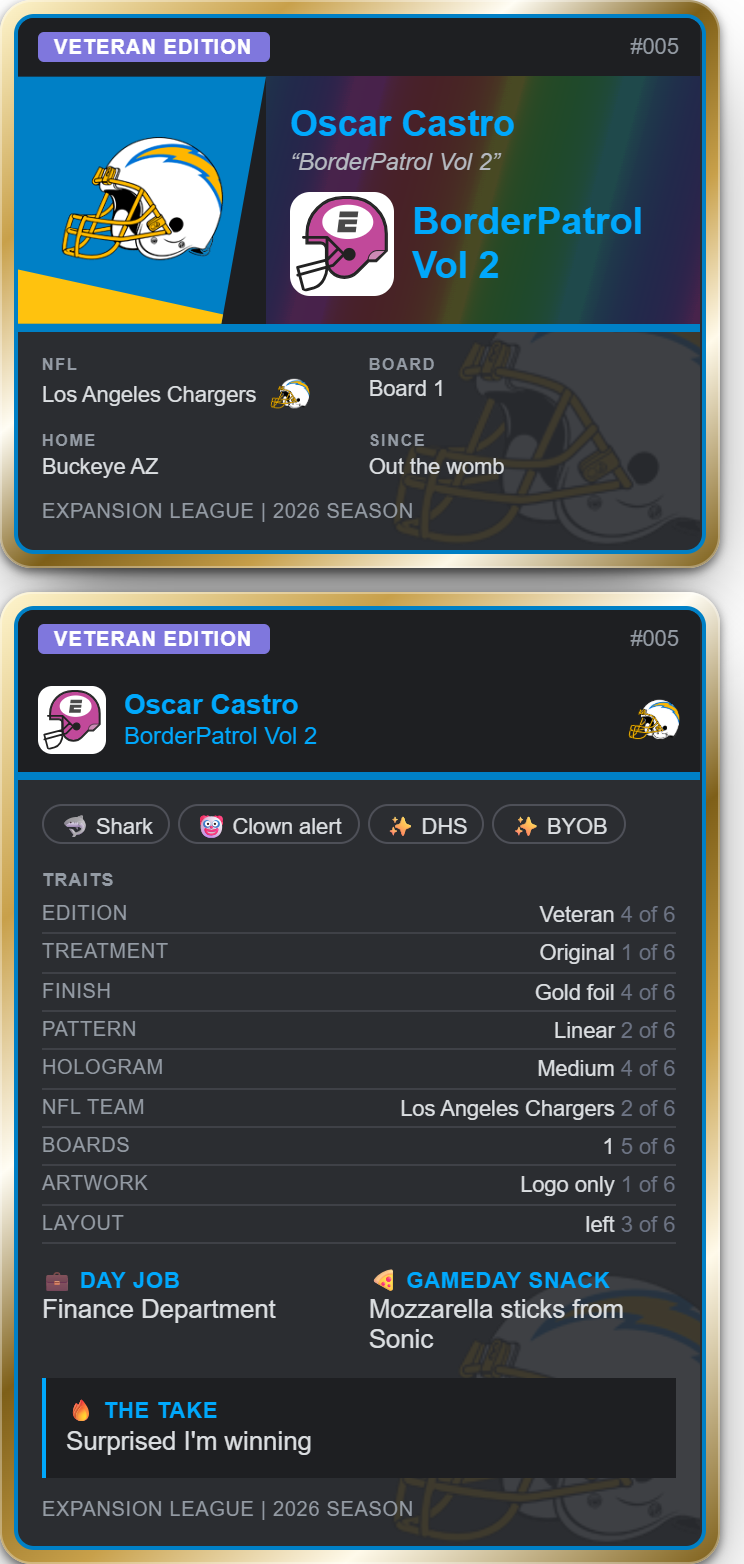
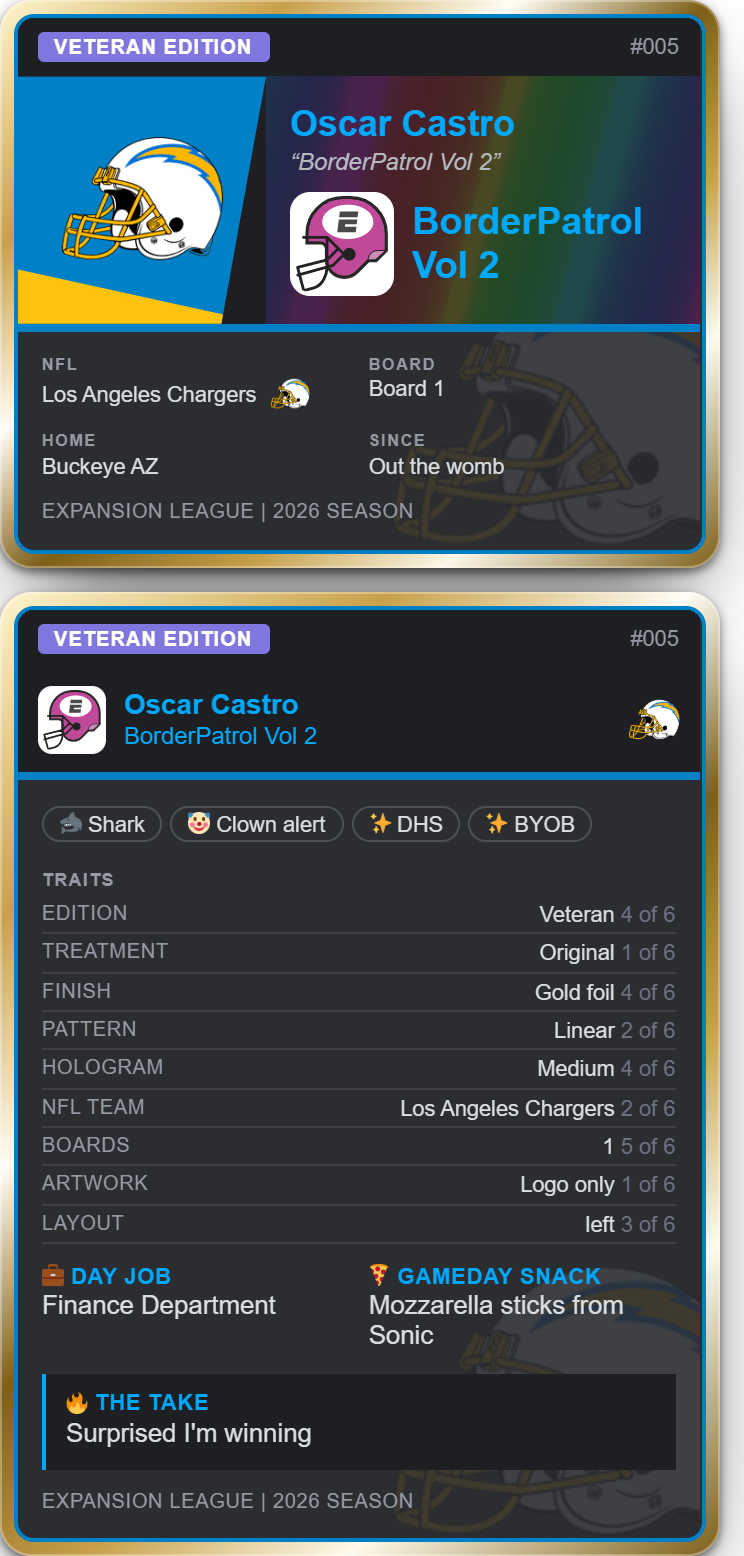
Draw emoji the way Discord draws them
Twemoji is the set Discord uses, so a card now looks like the room it is posted
in instead of changing shape depending on whose phone built it.

Both earlier attempts failed for the same reason and I missed it twice: the
glyphs were routed through /api/cards/img, and every image behind that proxy
shares one path, so the exporter collapsed them all into whichever it fetched
first — a card full of lightning bolts, then a card full of helmets. Pointed
straight at the CDN, where each glyph has its own path, they come through
correctly.

Oscar's #005 re-rendered with it.

diff --git a/cards/index.html b/cards/index.html
@@ -76,12 +76,14 @@ button{font-family:inherit}
 .db[disabled]{opacity:.6;cursor:wait}
 .bx{background:#383a40;border-radius:8px;padding:11px;color:#dbdee1}
 .only{color:#949ba4;font-size:12px;margin-bottom:8px}
+img.emoji{height:1em;width:1em;vertical-align:-.12em;display:inline-block}
 @media (prefers-reduced-motion:reduce){*{scroll-behavior:auto!important}}
 </style></head><body><div class="wrap">
 <div class="top"><h1>Expansion League card builder</h1><span id="bar"></span></div>
 <div id="pv" class="pv" hidden>Preview mode. To post for real, type <b>/intro</b> or <b>/block</b> in the league Discord and tap the button the bot sends you.</div>
 <div id="app" class="dm"></div></div>
 <script src="https://cdn.jsdelivr.net/npm/html-to-image@1.11.11/dist/html-to-image.js"></script>
+<script src="https://cdn.jsdelivr.net/npm/@twemoji/api@15.1.0/dist/twemoji.min.js" crossorigin="anonymous"></script>
 <script src="/cards/treat.js"></script>
 <script>let BOARDS={};</script>
 <script>const T=[["ARI","Arizona Cardinals","#97233F","#FFB612"],["ATL","Atlanta Falcons","#A71930","#000000"],["BAL","Baltimore Ravens","#241773","#9E7C0C"],["BUF","Buffalo Bills","#00338D","#C60C30"],["CAR","Carolina Panthers","#0085CA","#101820"],["CHI","Chicago Bears","#0B162A","#C83803"],["CIN","Cincinnati Bengals","#FB4F14","#000000"],["CLE","Cleveland Browns","#311D00","#FF3C00"],["DAL","Dallas Cowboys","#003594","#869397"],["DEN","Denver Broncos","#FB4F14","#002244"],["DET","Detroit Lions","#0076B6","#B0B7BC"],["GB","Green Bay Packers","#203731","#FFB612"],["HOU","Houston Texans","#03202F","#A71930"],["IND","Indianapolis Colts","#002C5F","#A2AAAD"],["JAX","Jacksonville Jaguars","#006778","#D7A22A"],["KC","Kansas City Chiefs","#E31837","#FFB81C"],["LV","Las Vegas Raiders","#000000","#A5ACAF"],["LAC","Los Angeles Chargers","#0080C6","#FFC20E"],["LAR","Los Angeles Rams","#003594","#FFA300"],["MIA","Miami Dolphins","#008E97","#FC4C02"],["MIN","Minnesota Vikings","#4F2683","#FFC62F"],["NE","New England Patriots","#002244","#C60C30"],["NO","New Orleans Saints","#101820","#D3BC8D"],["NYG","New York Giants","#0B2265","#A71930"],["NYJ","New York Jets","#125740","#FFFFFF"],["PHI","Philadelphia Eagles","#004C54","#A5ACAF"],["PIT","Pittsburgh Steelers","#101820","#FFB612"],["SF","San Francisco 49ers","#AA0000","#B3995D"],["SEA","Seattle Seahawks","#002244","#69BE28"],["TB","Tampa Bay Buccaneers","#D50A0A","#34302B"],["TEN","Tennessee Titans","#0C2340","#4B92DB"],["WAS","Washington Commanders","#5A1414","#FFB612"]];
@@ -479,6 +481,11 @@ function draw(){
   else h=posted("trade-block",`${esc(mainT())} is dealing`,bcard(),`<span class="ch">📞 Interested 0</span><span class="ch">✋ Pass 0</span>`);
  }
  $("app").innerHTML=h;
+ // Discord draws emoji with Twemoji, so the card does too — otherwise the same card comes out
+ // three different ways on three phones. Straight at the CDN, NOT through /api/cards/img: every
+ // image behind that proxy shares one path and the exporter collapses them all into one glyph.
+ if(window.twemoji)try{twemoji.parse($("app"),{crossOrigin:"anonymous",
+  callback:icon=>"https://cdn.jsdelivr.net/gh/jdecked/twemoji@15.1.0/assets/72x72/"+icon+".png"})}catch(e){}
 }
 if(!S.token)$('pv').hidden=false;
 $('app').innerHTML='Loading your league…';
